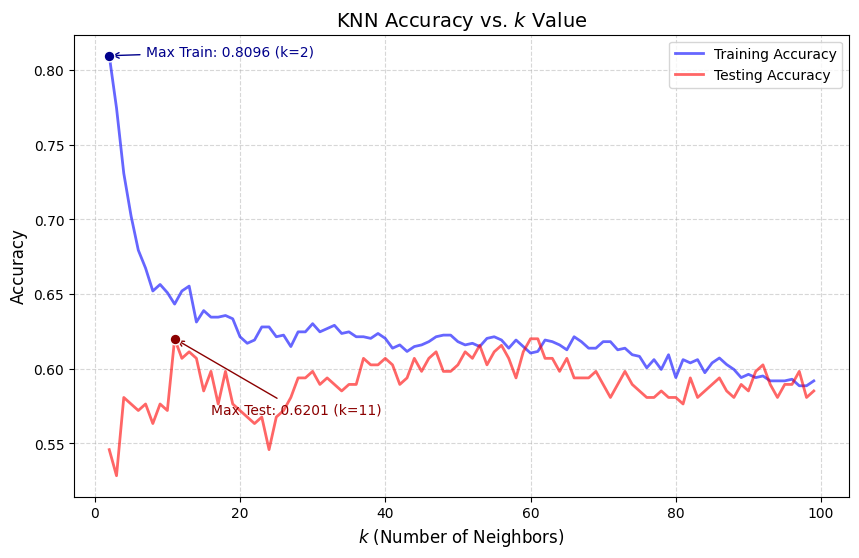
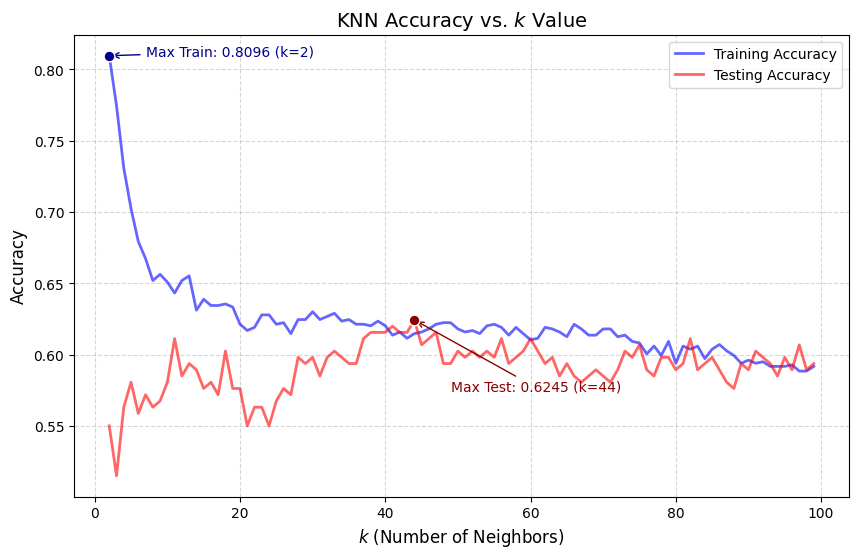
IQRC debug

diff --git a/KNN/myPreprocess.py b/KNN/myPreprocess.py
@@ -28,8 +28,10 @@ class STD_IQRC_Preprocess(STD_Preprocess):
         super().__init__()
     def trainPreprocess(self,rX,rY):
         # Capping outliers
-        mask,lower,upper = myUtil.calculateIQR(rX)
-        return super().trainPreprocess(np.clip(rX,lower,upper),rY)
+        mask,self.lower,self.upper = myUtil.calculateIQR(rX)
+        return super().trainPreprocess(np.clip(rX,self.lower,self.upper),rY)
+    def testPreprocess(self,rX):
+        return super().testPreprocess(np.clip(rX,self.lower,self.upper))
 
 class Scale_Preprocess():
     def __init__(self):
@@ -58,8 +60,10 @@ class Scale_IQRC_Preprocess(Scale_Preprocess):
         super().__init__()
     def trainPreprocess(self,rX,rY):
         # Capping outliers
-        mask,lower,upper = myUtil.calculateIQR(rX)
-        return super().trainPreprocess(np.clip(rX,lower,upper),rY)
+        mask,self.lower,self.upper = myUtil.calculateIQR(rX)
+        return super().trainPreprocess(np.clip(rX,self.lower,self.upper),rY)
+    def testPreprocess(self,rX):
+        return super().testPreprocess(np.clip(rX,self.lower,self.upper))
 
 if __name__ == "__main__":
     # for testing

diff --git a/KNN/findBestK.py b/KNN/findBestK.py
@@ -60,13 +60,17 @@ def testBestK(KNN1, test, pictureName):
     plt.savefig(f'KNN\\picture\\{pictureName}', bbox_inches='tight')
 
 if __name__=="__main__":
+    # preprocess = [
+    #     (myPreprocess.Scale_IQRC_Preprocess(),"Scale_IQRC"),
+    #     (myPreprocess.Scale_IQRR_Preprocess(),"Scale_IQRR"),
+    #     (myPreprocess.Scale_Preprocess(),"Scale"),
+    #     (myPreprocess.STD_IQRC_Preprocess(),"STD_IQRC"),
+    #     (myPreprocess.STD_IQRR_Preprocess(),"STD_IQRR"),
+    #     (myPreprocess.STD_Preprocess(),"STD"),
+    # ]
     preprocess = [
         (myPreprocess.Scale_IQRC_Preprocess(),"Scale_IQRC"),
-        (myPreprocess.Scale_IQRR_Preprocess(),"Scale_IQRR"),
-        (myPreprocess.Scale_Preprocess(),"Scale"),
         (myPreprocess.STD_IQRC_Preprocess(),"STD_IQRC"),
-        (myPreprocess.STD_IQRR_Preprocess(),"STD_IQRR"),
-        (myPreprocess.STD_Preprocess(),"STD"),
     ]
     distance_fnc = [
         (myUtil.euclidean_distance_sq,"euc"),
